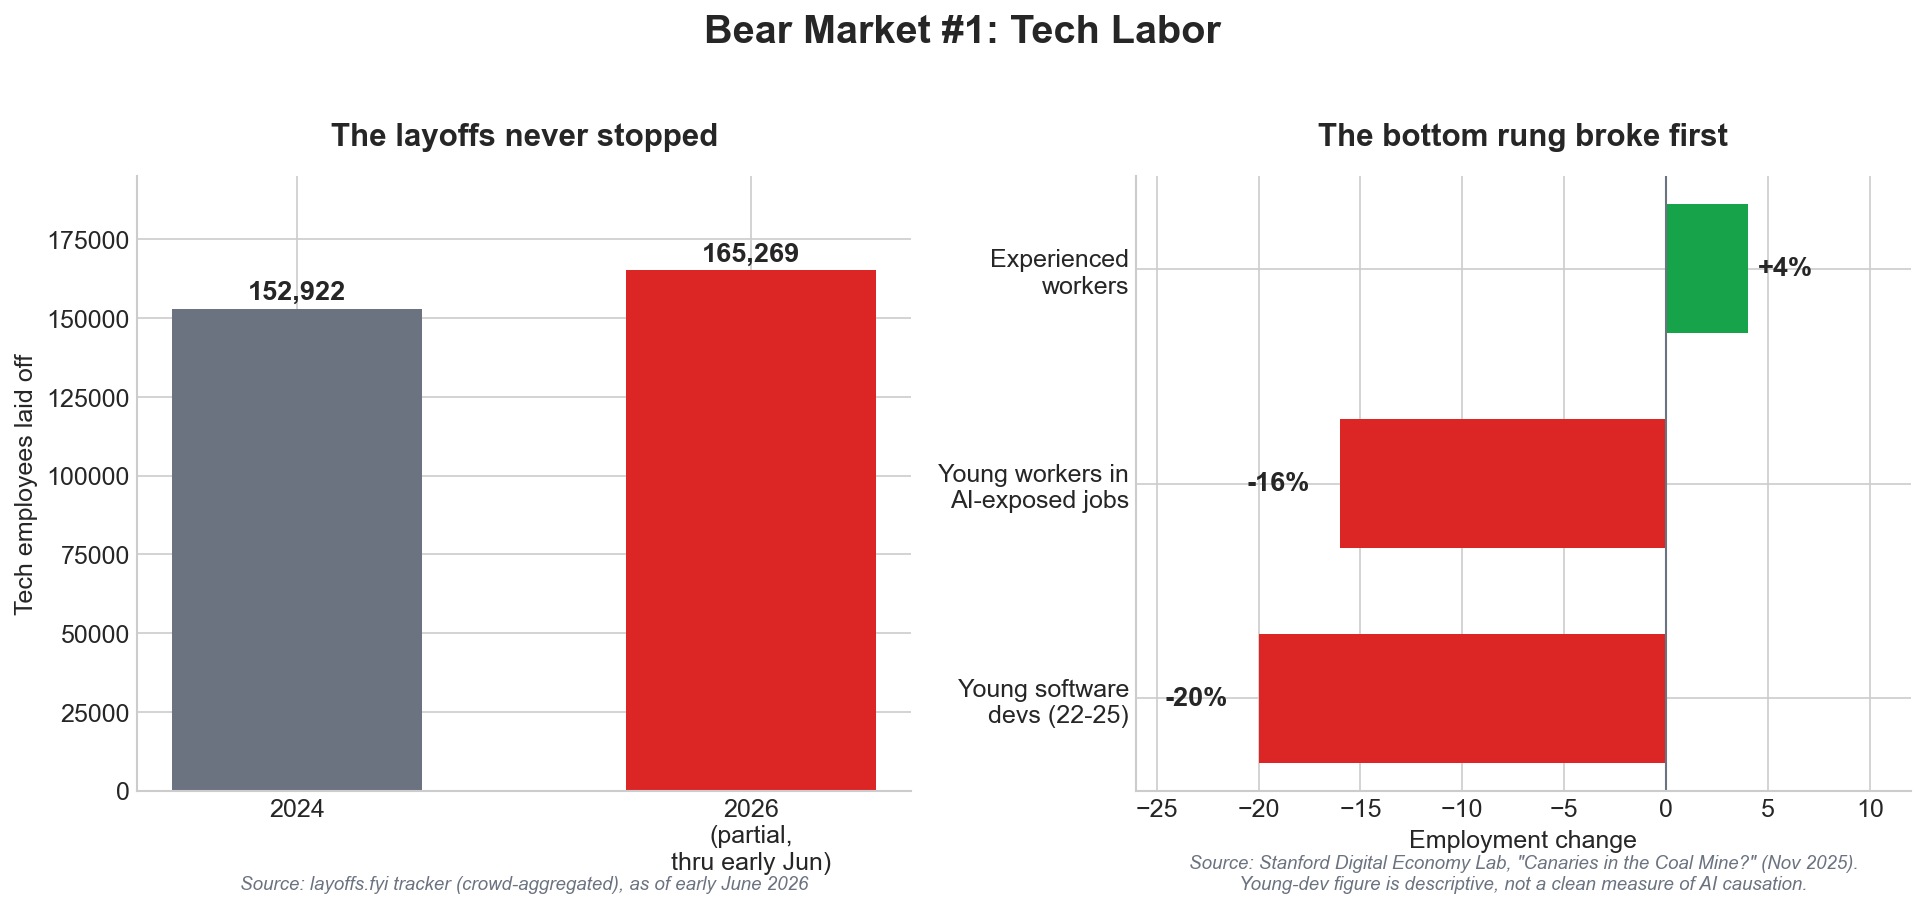
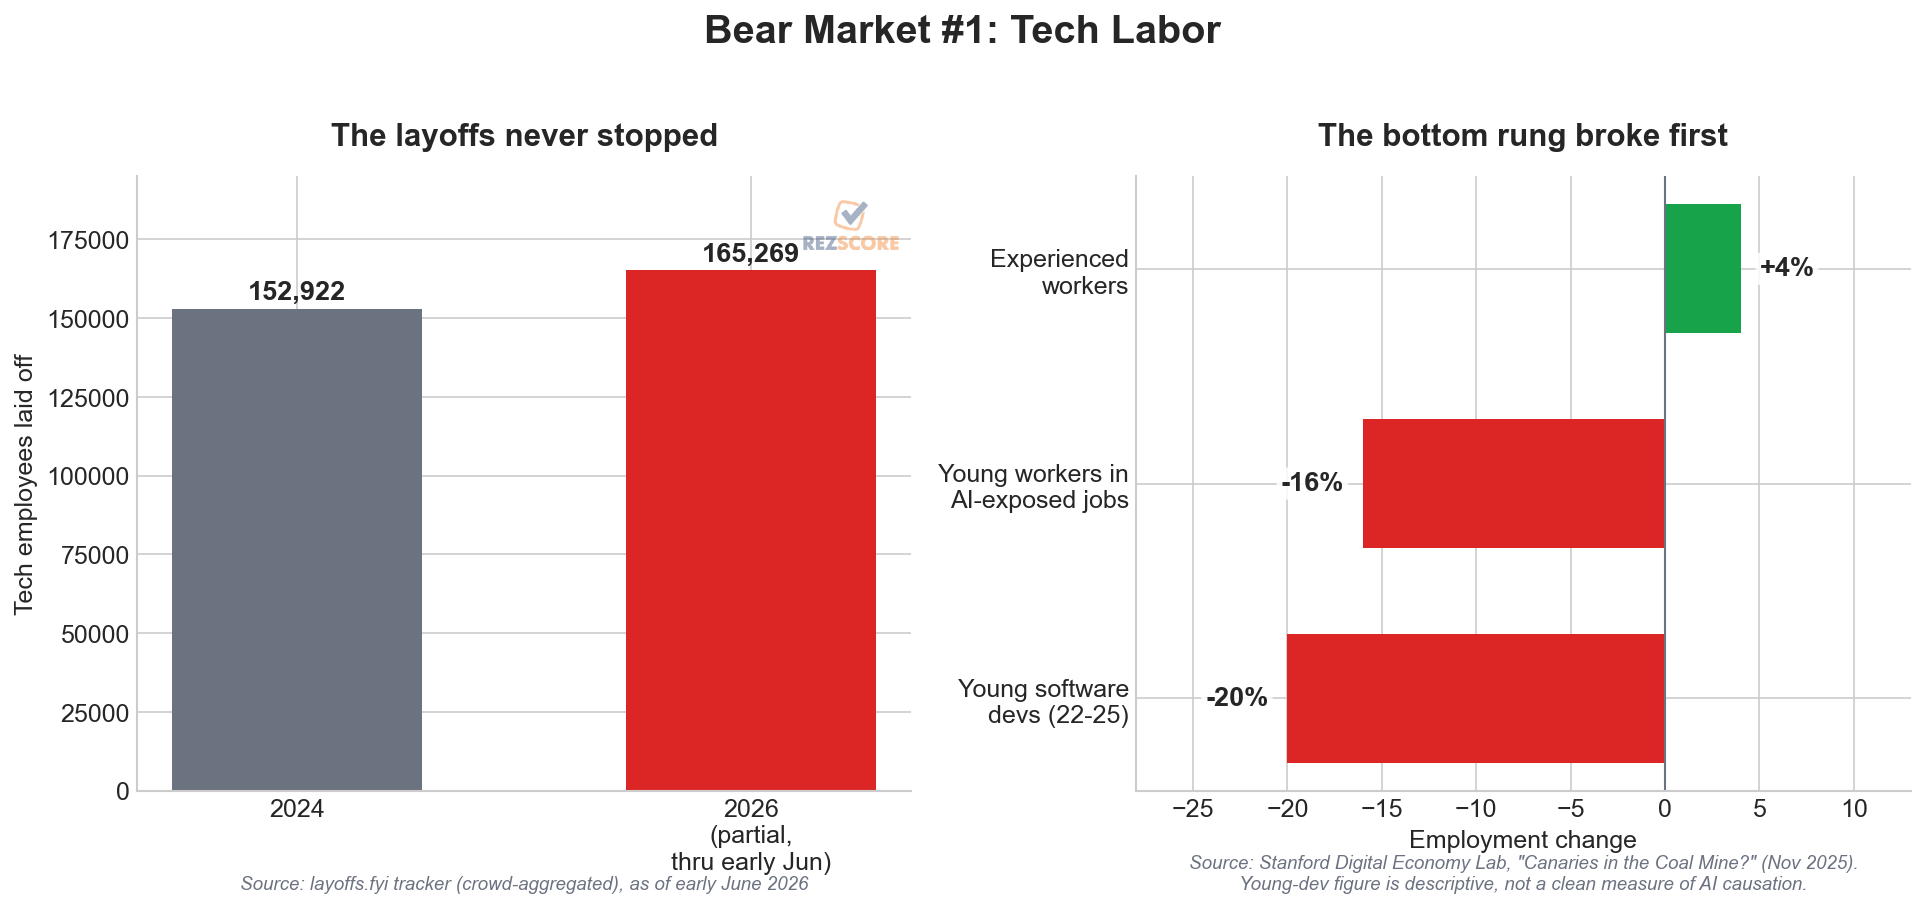
Add RezScore watermark to charts; fix label/gridline overlaps
- Faint logo watermark (top-right) on all 4 charts via AnnotationBbox.
- c1: white-boxed bar labels so -16/-20/+4% no longer sit on gridlines.
- c2: drawdown % labels moved below bar tips in dark text (were near-
  invisible white-on-bar).
- c4: watermark moved to the open left-panel corner.

diff --git a/generate_crypto_blog_charts.py b/generate_crypto_blog_charts.py
@@ -17,12 +17,42 @@ Output:
 """
 
 import matplotlib.pyplot as plt
+import matplotlib.image as mpimg
 import numpy as np
+from matplotlib.offsetbox import OffsetImage, AnnotationBbox
 from pathlib import Path
 
 # Create output directory (shared with generate_blog_charts.py)
 OUTPUT_DIR = Path(__file__).parent / "charts"
 OUTPUT_DIR.mkdir(exist_ok=True)
+
+# RezScore logo, used as a corner watermark on every chart.
+_LOGO_PATH = (
+    Path(__file__).parent.parent
+    / "rezscore_ai" / "static" / "img" / "logo.png"
+)
+
+
+def add_watermark(ax, alpha=0.45, zoom=0.32, loc=(0.99, 0.97)):
+    """Place a small, faint RezScore logo in a corner of `ax`.
+
+    Uses an AnnotationBbox in axes-fraction coords so it survives tight_layout
+    and bbox_inches='tight' (unlike figimage, which gets recropped). `loc` is the
+    (x, y) anchor in axes fraction; default top-right where chart whitespace lives.
+    Silently no-ops if the logo file is missing so generation never hard-fails.
+    """
+    if not _LOGO_PATH.exists():
+        print(f"  (watermark skipped - logo not found at {_LOGO_PATH})")
+        return
+    logo = mpimg.imread(str(_LOGO_PATH))
+    imagebox = OffsetImage(logo, zoom=zoom, alpha=alpha)
+    imagebox.image.axes = ax
+    ab = AnnotationBbox(
+        imagebox, loc, xycoords='axes fraction',
+        box_alignment=(1, 1),  # anchor the logo's top-right corner at loc
+        frameon=False, pad=0, zorder=20,
+    )
+    ax.add_artist(ab)
 
 # Set style (matches generate_blog_charts.py)
 plt.style.use('seaborn-v0_8-whitegrid')
@@ -74,13 +104,17 @@ def chart_1_labor_bear_market():
     colors = [DANGER_RED if c < 0 else SUCCESS_GREEN for c in changes]
     bars2 = ax2.barh(cohorts, changes, color=colors, height=0.6)
     for bar, val in zip(bars2, changes):
-        offset = -1.5 if val < 0 else 0.5
+        # Place each label just past the bar's tip; a white bbox keeps it legible
+        # over the gridlines instead of colliding with them.
+        offset = -1.0 if val < 0 else 1.0
         ha = 'right' if val < 0 else 'left'
         ax2.text(val + offset, bar.get_y() + bar.get_height() / 2,
                  f'{"+" if val > 0 else ""}{val}%', va='center', ha=ha,
-                 fontsize=13, fontweight='bold')
+                 fontsize=13, fontweight='bold',
+                 bbox=dict(boxstyle='round,pad=0.15', facecolor='white',
+                           edgecolor='none', alpha=0.85))
     ax2.axvline(x=0, color=GRAY, linewidth=1)
-    ax2.set_xlim(-26, 12)
+    ax2.set_xlim(-28, 13)
     ax2.set_xlabel('Employment change', fontsize=12)
     ax2.set_title('The bottom rung broke first', fontsize=15, fontweight='bold', pad=15)
     ax2.text(0.5, -0.16,
@@ -92,6 +126,7 @@ def chart_1_labor_bear_market():
 
     fig.suptitle('Bear Market #1: Tech Labor', fontsize=19, fontweight='bold', y=1.02)
     plt.tight_layout()
+    add_watermark(ax1)  # left panel has open space at top-right
     plt.savefig(OUTPUT_DIR / 'c1_labor_bear_market.png', dpi=150, bbox_inches='tight',
                 facecolor='white', edgecolor='none')
     plt.close()
@@ -118,8 +153,10 @@ def chart_2_crypto_drawdown():
 
     bars = ax.bar(labels, drawdowns, color=colors, width=0.6)
     for bar, val in zip(bars, drawdowns):
-        ax.text(bar.get_x() + bar.get_width() / 2, val - 3, f'{val}%',
-                ha='center', va='top', fontsize=15, fontweight='bold', color='white')
+        # Dark label just below each bar's tip - reads clearly on the white
+        # background instead of disappearing as white-on-bar.
+        ax.text(bar.get_x() + bar.get_width() / 2, val - 2.5, f'{val}%',
+                ha='center', va='top', fontsize=15, fontweight='bold', color='#1f2937')
 
     ax.axhline(y=0, color=GRAY, linewidth=1)
     ax.set_ylim(-90, 8)
@@ -138,6 +175,7 @@ def chart_2_crypto_drawdown():
     ax.spines['right'].set_visible(False)
 
     plt.tight_layout()
+    add_watermark(ax)  # bars hang down from 0; top-right corner is clear
     plt.savefig(OUTPUT_DIR / 'c2_crypto_drawdown.png', dpi=150, bbox_inches='tight',
                 facecolor='white', edgecolor='none')
     plt.close()
@@ -189,6 +227,7 @@ def chart_3_crypto_split_screen():
 
     fig.suptitle('The Twist: The Money Never Left', fontsize=19, fontweight='bold', y=1.02)
     plt.tight_layout()
+    add_watermark(ax1)  # left panel: tall first bar, but right side is open
     plt.savefig(OUTPUT_DIR / 'c3_crypto_split_screen.png', dpi=150, bbox_inches='tight',
                 facecolor='white', edgecolor='none')
     plt.close()
@@ -256,6 +295,7 @@ def chart_4_code_vs_coders():
     fig.suptitle('More Code, Fewer Coders (the facts; the conclusion is the argument)',
                  fontsize=17, fontweight='bold', y=1.00)
     plt.tight_layout(rect=[0, 0.06, 1, 1])
+    add_watermark(ax1, loc=(0.99, 0.99))  # left panel top-right is open whitespace
     plt.savefig(OUTPUT_DIR / 'c4_code_vs_coders.png', dpi=150, bbox_inches='tight',
                 facecolor='white', edgecolor='none')
     plt.close()
